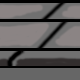
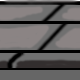
Added object list and rendering of objects

Changed region(s): [[0.0, 0.0, 1.0, 0.8], [0.0, 0.825, 1.0, 0.875], [0.05, 0.325, 0.15, 0.35]]

diff --git a/main.py b/main.py
@@ -57,8 +57,16 @@ class Main():
 	def initGame(self):
 		self.running = True
 		self.player = Player(self)
-		self.level = Level(self, 1)
+		self.level = Level(self, 1, 0.9)
 		self.level.xPosition = self.player.xPos
+
+
+	def showProgressBar(self):
+		percentage = (self.level.xPos + self.player.xPos) / (self.width + self.level.xPosMax)
+		barWidth = self.width - 200
+		pygame.draw.rect(self.display, (70, 180, 50), (100, 30, barWidth, 20))	# bar
+		pygame.draw.rect(self.display, (0, 0, 0),     (100 + (barWidth * percentage), 30, 2, 20))	# player location
+
 
 
 	def checkInput(self):
@@ -74,7 +82,7 @@ class Main():
 				elif event.key == pygame.K_SPACE:
 					pass
 			elif event.type == self.jumpEvent:					# special events
-				self.player.calculateJump()
+				self.player.calculateJump(self.level)
 			elif event.type == self.tickEvent:
 				self.ticks += 1
 				if 	self.ticks > 60: self.ticks = 0
@@ -84,7 +92,7 @@ class Main():
 				self.player.movement.goUp()
 				self.player.jumping = True
 				self.player.kneeling = False
-				pygame.time.set_timer(self.jumpEvent, 100)			# register a jump-event
+				pygame.time.set_timer(self.jumpEvent, 32)			# register a jump-event
 		elif keysPressed[pygame.K_DOWN]:
 			self.player.movement.goDown()
 			if not self.player.jumping: self.player.kneel()
@@ -98,13 +106,10 @@ class Main():
 				self.player.stop()
 			else:
 				self.player.move(0)
-
-
-
-
 			# move level
 			if self.level.xPos > 0 and self.player.xPos == self.player.xPosMin:
-				self.level.move(-10)
+				if not self.player.jumping:
+					self.level.move(-10)
 		elif keysPressed[pygame.K_RIGHT]:
 			# move player
 			if self.player.xPos < self.player.xPosMax:
@@ -117,7 +122,8 @@ class Main():
 				self.player.move(0)
 			# move level
 			if self.level.xPos < self.level.xPosMax and self.player.xPos == self.player.xPosMax:
-				self.level.move(10)
+				if not self.player.jumping:
+					self.level.move(10)
 			# check complete
 			if self.player.xPos >= self.width:
 				self.level.triggerEnd()
@@ -126,20 +132,16 @@ class Main():
 
 
 
-
-
-
-
-
 	def loop(self):
 		""" Ensure that view runs until terminated by user """
 		while self.running:
-			self.level.background.draw()
+			self.level.update()
 			self.player.update()
 			self.player.draw()
+			self.showProgressBar()
 			self.checkInput()
 			pygame.display.update()
-			print(self.player.xPos, self.level.xPos, self.player.vector)
+			print(self.level.xPos)
 		pygame.quit()
 		print('  Game terminated gracefully\n')
 
@@ -159,7 +161,7 @@ obj.run()
 
 
 # --- TODO ---------------------------------------------------------------------------------------
-# - JUMP giver ukkurante vaerdier!
+# - 
 
 
 # --- NOTES --------------------------------------------------------------------------------------

diff --git a/level.py b/level.py
@@ -1,17 +1,26 @@
-#import pygame
-#from helperFunctions import *
+import json
+from objects import Object
 
 from background import Background
 
 class Level():
 	""" Representation of the background """
 
-	def __init__(self, parent, levelNo):
+	def __init__(self, parent, levelNo, startPos = 0):
 		self.parent = parent
-		self.number = levelNo		# should get level No and read data from file
-		self.xPosMax = 8320			# The width of the level, in pixel (8320 = 1280 * 6.5)
-		self.xPos = 0				# Where in the level is player	
-		self.background = Background(self.parent)
+		# read data
+		with open('levelData.json') as json_file:
+			self.levelData = json.load(json_file)['levels'][str(levelNo)]
+		self.xPosMax = self.levelData['length']		# The width of the level, in pixel
+		self.xPos = int(startPos * self.xPosMax) if startPos else 0
+
+
+
+
+										# Where in the level is player	
+		self.background = Background(self.parent, self.levelData, self.xPos)
+		self.objects = [Object()]	# List of objects bound to the level (portal, toadstool, etc..)
+
 
 
 	def move(self, speed):
@@ -24,11 +33,19 @@ class Level():
 
 
 
+	def update(self):
+		self.background.draw()
+		for obj in self.objects:
+			if self.xPos < obj.xPos < self.xPos + self.parent.width + 100: #obj.animFrames[0].width:
+				self.parent.display.blit(obj.animFrames[0], (self.parent.width - (self.xPos + self.parent.width - obj.xPos), obj.yPos))
+
+
+
 
 	def triggerEnd(self):
-		""" Triggered when player reaches end of level (xPos == self.length) """
+		""" Triggered when player reaches end of level (level.xPos == self.length) """
 		import sys
-		sys.exit('Level ' + str(self.number) + ' Completed!')
+		sys.exit('Level ' + str(self.levelData['levelNo']) + ' Completed!')
 
 
 

diff --git a/background.py b/background.py
@@ -4,13 +4,14 @@ from helperFunctions import *
 class Background():
 	""" Representation of the background. Should ONLY be moved by level-class! """
 
-	def __init__(self, parent):
+	def __init__(self, parent, levelData, xPos):
 		self.parent = parent
-		self.pavement = pygame.image.load('gfx/pavement.png')
-		self.wallpaper = pygame.image.load('gfx/background.png')
-		self.wallpaperDim = self.wallpaper.get_size()
+		self.tile = pygame.image.load(levelData['TilePath'])
+		self.layer = pygame.image.load(levelData['layerPath'])
+		self.background = pygame.image.load(levelData['bgPath'])
+		self.layerDim = self.layer.get_size()
 		self.pavementOffset = RangeIterator(8)
-		self.xPosBackground = 0
+		self.xPosBackground = xPos / -5
 
 
 
@@ -18,7 +19,7 @@ class Background():
 		""" Move the bacground left or right """
 		if direction:
 			self.pavementOffset.dec()
-			if self.xPosBackground > -(self.wallpaperDim[0] - self.parent.width):
+			if self.xPosBackground > -(self.layerDim[0] - self.parent.width):
 				self.xPosBackground -= 2
 		else:
 			self.pavementOffset.inc()
@@ -27,7 +28,8 @@ class Background():
 
 
 	def draw(self):
-		self.parent.display.blit(self.wallpaper, (self.xPosBackground, 0))
-		for tile in range(-80, 1360, 80):
-			self.parent.display.blit(self.pavement, (tile + 10 * self.pavementOffset.get() , self.parent.height - 80))
+		self.parent.display.blit(self.background, (0, 0))
+		self.parent.display.blit(self.layer, (self.xPosBackground, 0))
+		for t in range(-80, 1360, 80):
+			self.parent.display.blit(self.tile, (t + 10 * self.pavementOffset.get() , self.parent.height - 80))
 

diff --git a/player.py b/player.py
@@ -25,7 +25,8 @@ class Player():
 		self.size = self.runFrames[1].get_rect().size
 		self.yAcc = 30
 		self.xPos = 300
-		self.yPos = x - self.runFrames[1].get_height() - 30
+		self.yPosOrig = x - self.runFrames[1].get_height() - 40
+		self.yPos = self.yPosOrig
 		self.xPosMin = 250
 		self.xPosMax = 850
 
@@ -61,19 +62,30 @@ class Player():
 
 
 
-	def calculateJump(self):
-		if self.vector and self.xPos < self.xPosMax:
-			self.xPos += 7
-		elif not self.vector and self.xPos > self.xPosMin:
-			self.xPos -= 10
+	def calculateJump(self, level):
+		if self.vector:
+			if self.xPos != self.xPosMax:
+				self.xPos += 10
+			elif level.xPos == level.xPosMax and self.xPos < level.xPosMax:
+				self.xPos += 10
+		else:
+			if self.xPos != self.xPosMin and self.xPos > 0:
+				self.xPos -= 10
+			elif level.xPos == 0 and self.xPos > 0:
+				self.xPos -= 10
+		# move level
+		if level.xPos > 0 and self.xPos <= self.xPosMin:
+			level.move(-10)
+		elif level.xPos < level.xPosMax and self.xPos >= self.xPosMax:
+			level.move(10)
 		self.yPos -= self.yAcc
 		self.yAcc -= 2
 		if self.yAcc > 0:
 			self.currentBody = self.jumpFrames[0] if self.vector else pygame.transform.flip(self.jumpFrames[0] , True, False)
 		else:
 			self.currentBody = self.jumpFrames[1]  if self.vector else pygame.transform.flip(self.jumpFrames[1], True, False)
-		if self.yPos >= 448:
-			self.yPos = 448
+		if self.yPos >= self.yPosOrig:
+			self.yPos = self.yPosOrig
 			self.yAcc = 30
 			self.jumping = False
 			pygame.time.set_timer(self.parent.jumpEvent, 0)			# un-register the jump-event

diff --git a/objects.py b/objects.py
@@ -1,0 +1,16 @@
+import pygame
+from helperFunctions import *
+
+class Object():
+	""" Representation of any object, other than the player """
+
+	def __init__(self):
+		self.animFrames = { 0: pygame.image.load('gfx/portal.png') }
+		self.xPos = 18500 + 1200	# location in the level
+		self.yPos = 365				# location in the level
+
+
+
+
+
+
